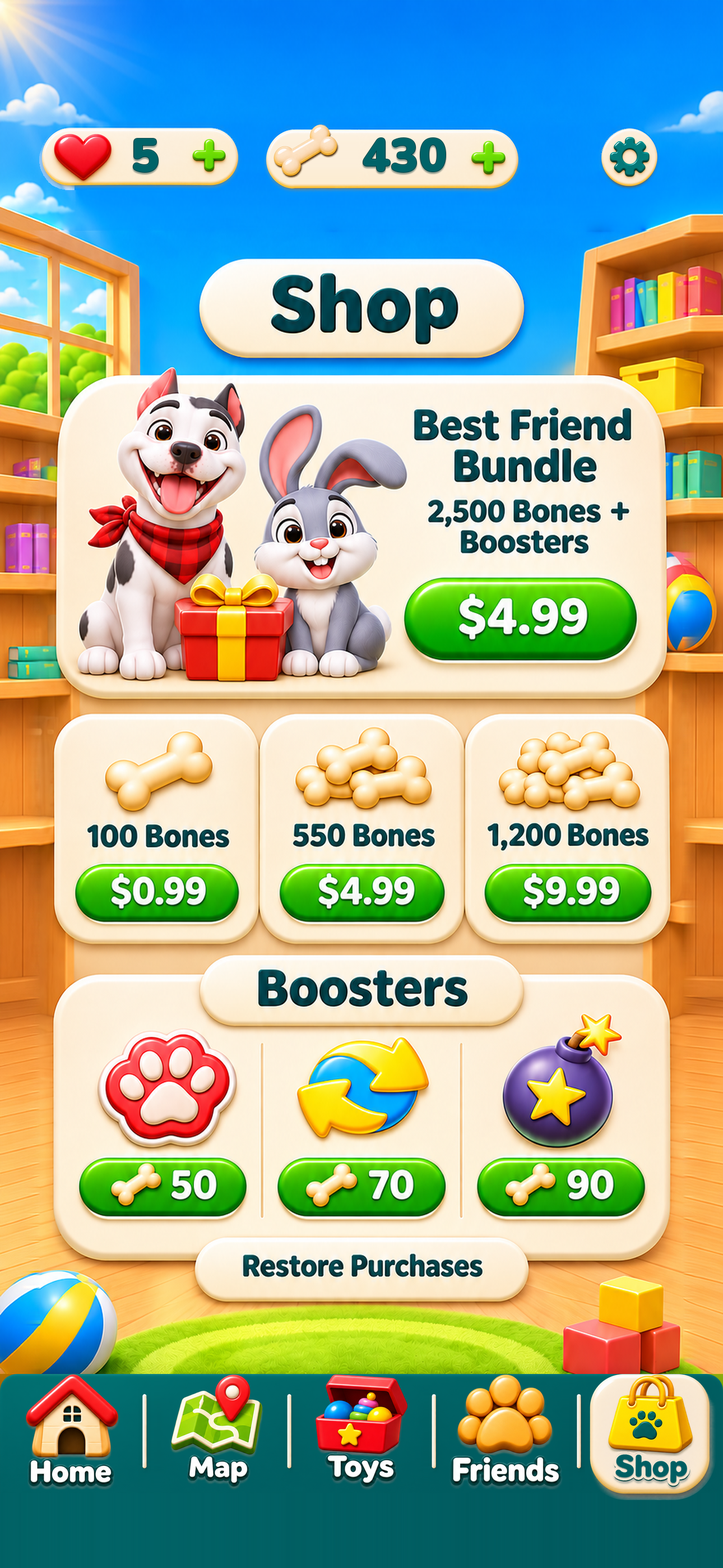
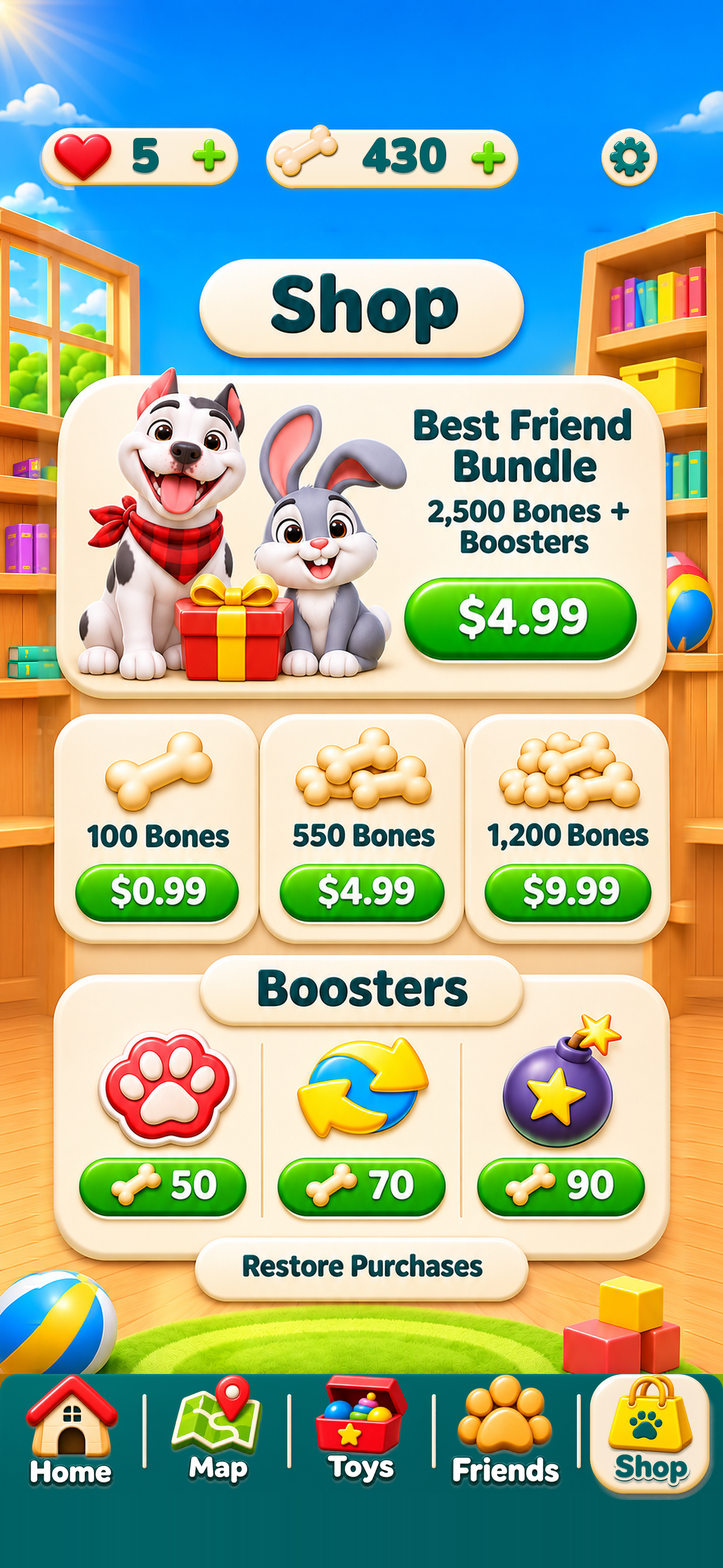
Preview pages: straight room edges, Friends bottom gap fixed
Claude-Session: https://claude.ai/code/session_01HqXo8oXM9XTGkWGnUkjv9K

Changed region(s): [[0.9302, 0.1245, 1.0, 0.4667], [0.0, 0.1245, 0.062, 0.4667]]

diff --git a/p_settings.html b/p_settings.html
@@ -1,4 +1,4 @@
-<!DOCTYPE html><html lang="en"><head><meta charset="utf-8"><meta name="viewport" content="width=device-width,initial-scale=1,maximum-scale=1,user-scalable=no,viewport-fit=cover"><title>Good Boy Bobo</title><script src="audio.js?v=21"></script><script src="common.js?v=21"></script></head><body><div id="app" style="display:none"></div><script src="pages.js?v=21"></script><script>
+<!DOCTYPE html><html lang="en"><head><meta charset="utf-8"><meta name="viewport" content="width=device-width,initial-scale=1,maximum-scale=1,user-scalable=no,viewport-fit=cover"><title>Good Boy Bobo</title><script src="audio.js?v=22"></script><script src="common.js?v=22"></script></head><body><div id="app" style="display:none"></div><script src="pages.js?v=22"></script><script>
 buildPage({image:'settings',extra(){const P=PAGE;
  let ST={music:70,sounds:80,barks:1,vib:1,hints:1};try{Object.assign(ST,JSON.parse(localStorage.getItem('gbb_settings')||'{}'))}catch(e){}
  const sv=()=>{try{localStorage.setItem('gbb_settings',JSON.stringify(ST))}catch(e){};window.BA&&BA.apply()};

diff --git a/p_toys.html b/p_toys.html
@@ -1,4 +1,4 @@
-<!DOCTYPE html><html lang="en"><head><meta charset="utf-8"><meta name="viewport" content="width=device-width,initial-scale=1,maximum-scale=1,user-scalable=no,viewport-fit=cover"><title>Good Boy Bobo</title><script src="audio.js?v=21"></script><script src="common.js?v=21"></script></head><body><div id="app" style="display:none"></div><script src="pages.js?v=21"></script><script>
+<!DOCTYPE html><html lang="en"><head><meta charset="utf-8"><meta name="viewport" content="width=device-width,initial-scale=1,maximum-scale=1,user-scalable=no,viewport-fit=cover"><title>Good Boy Bobo</title><script src="audio.js?v=22"></script><script src="common.js?v=22"></script></head><body><div id="app" style="display:none"></div><script src="pages.js?v=22"></script><script>
 buildPage({image:'toys',extra(){const P=PAGE;
  P.hit('',[180,975,160,120],()=>P.toast('More chapters coming soon!'));P.hit('',[940,975,170,120],()=>P.toast('More chapters coming soon!'));
  P.hit('',[100,2060,1090,170],()=>P.toast('Finish The Backyard to unlock The Park!'));}});

diff --git a/p_shop.html b/p_shop.html
@@ -1,4 +1,4 @@
-<!DOCTYPE html><html lang="en"><head><meta charset="utf-8"><meta name="viewport" content="width=device-width,initial-scale=1,maximum-scale=1,user-scalable=no,viewport-fit=cover"><title>Good Boy Bobo</title><script src="audio.js?v=21"></script><script src="common.js?v=21"></script></head><body><div id="app" style="display:none"></div><script src="pages.js?v=21"></script><script>
+<!DOCTYPE html><html lang="en"><head><meta charset="utf-8"><meta name="viewport" content="width=device-width,initial-scale=1,maximum-scale=1,user-scalable=no,viewport-fit=cover"><title>Good Boy Bobo</title><script src="audio.js?v=22"></script><script src="common.js?v=22"></script></head><body><div id="app" style="display:none"></div><script src="pages.js?v=22"></script><script>
 buildPage({image:'shop',extra(){const P=PAGE;
  P.hit('Purchases coming soon!',[100,700,1090,520]);P.hit('Purchases coming soon!',[100,1280,1090,390]);
  P.hit('Boosters coming soon!',[100,1730,1090,460]);P.hit('Nothing to restore yet.',[340,2200,600,110]);}});

diff --git a/p_friends.html b/p_friends.html
@@ -1,3 +1,3 @@
-<!DOCTYPE html><html lang="en"><head><meta charset="utf-8"><meta name="viewport" content="width=device-width,initial-scale=1,maximum-scale=1,user-scalable=no,viewport-fit=cover"><title>Good Boy Bobo</title><script src="audio.js?v=21"></script><script src="common.js?v=21"></script></head><body><div id="app" style="display:none"></div><script src="pages.js?v=21"></script><script>
+<!DOCTYPE html><html lang="en"><head><meta charset="utf-8"><meta name="viewport" content="width=device-width,initial-scale=1,maximum-scale=1,user-scalable=no,viewport-fit=cover"><title>Good Boy Bobo</title><script src="audio.js?v=22"></script><script src="common.js?v=22"></script></head><body><div id="app" style="display:none"></div><script src="pages.js?v=22"></script><script>
 buildPage({image:'friends',extra(){PAGE.hit('Friends are coming soon!',[100,650,1090,1790]);}});
 </script><script>BA.music("Theme")</script></body></html>
